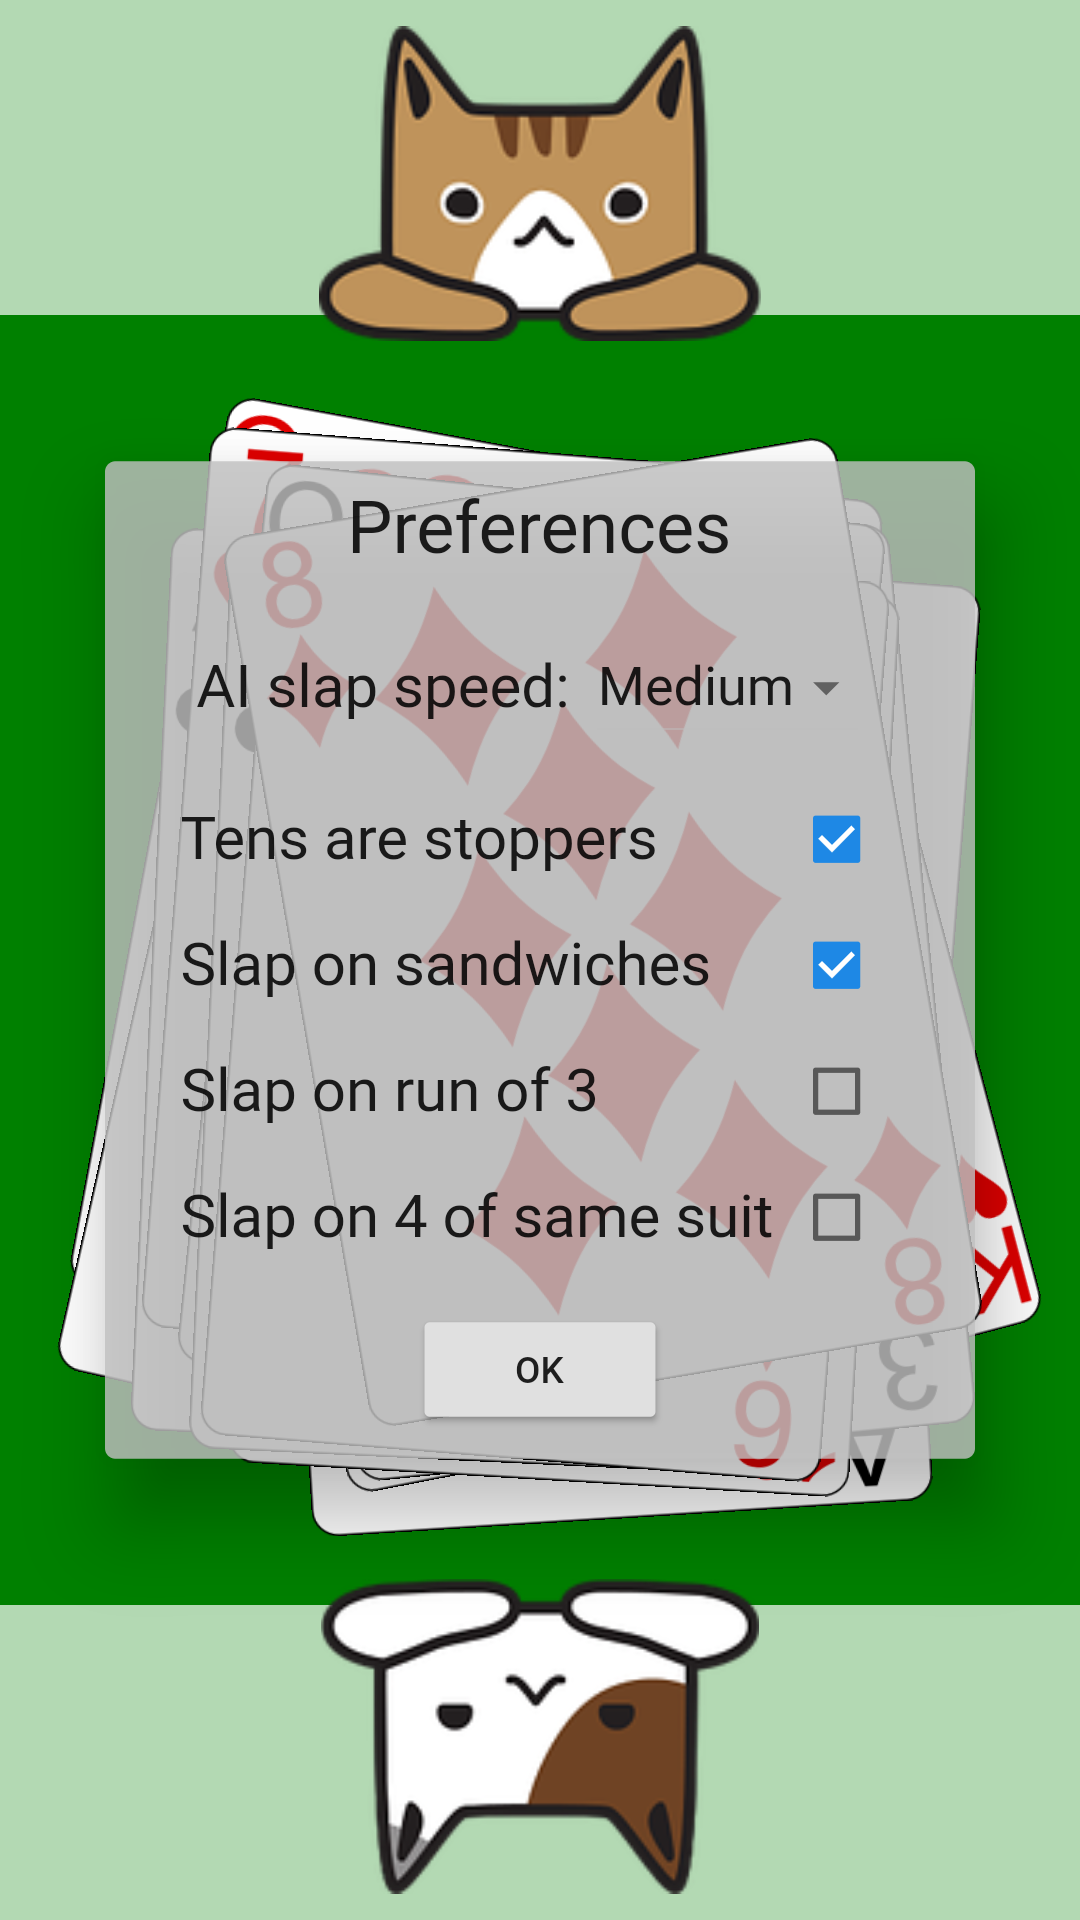
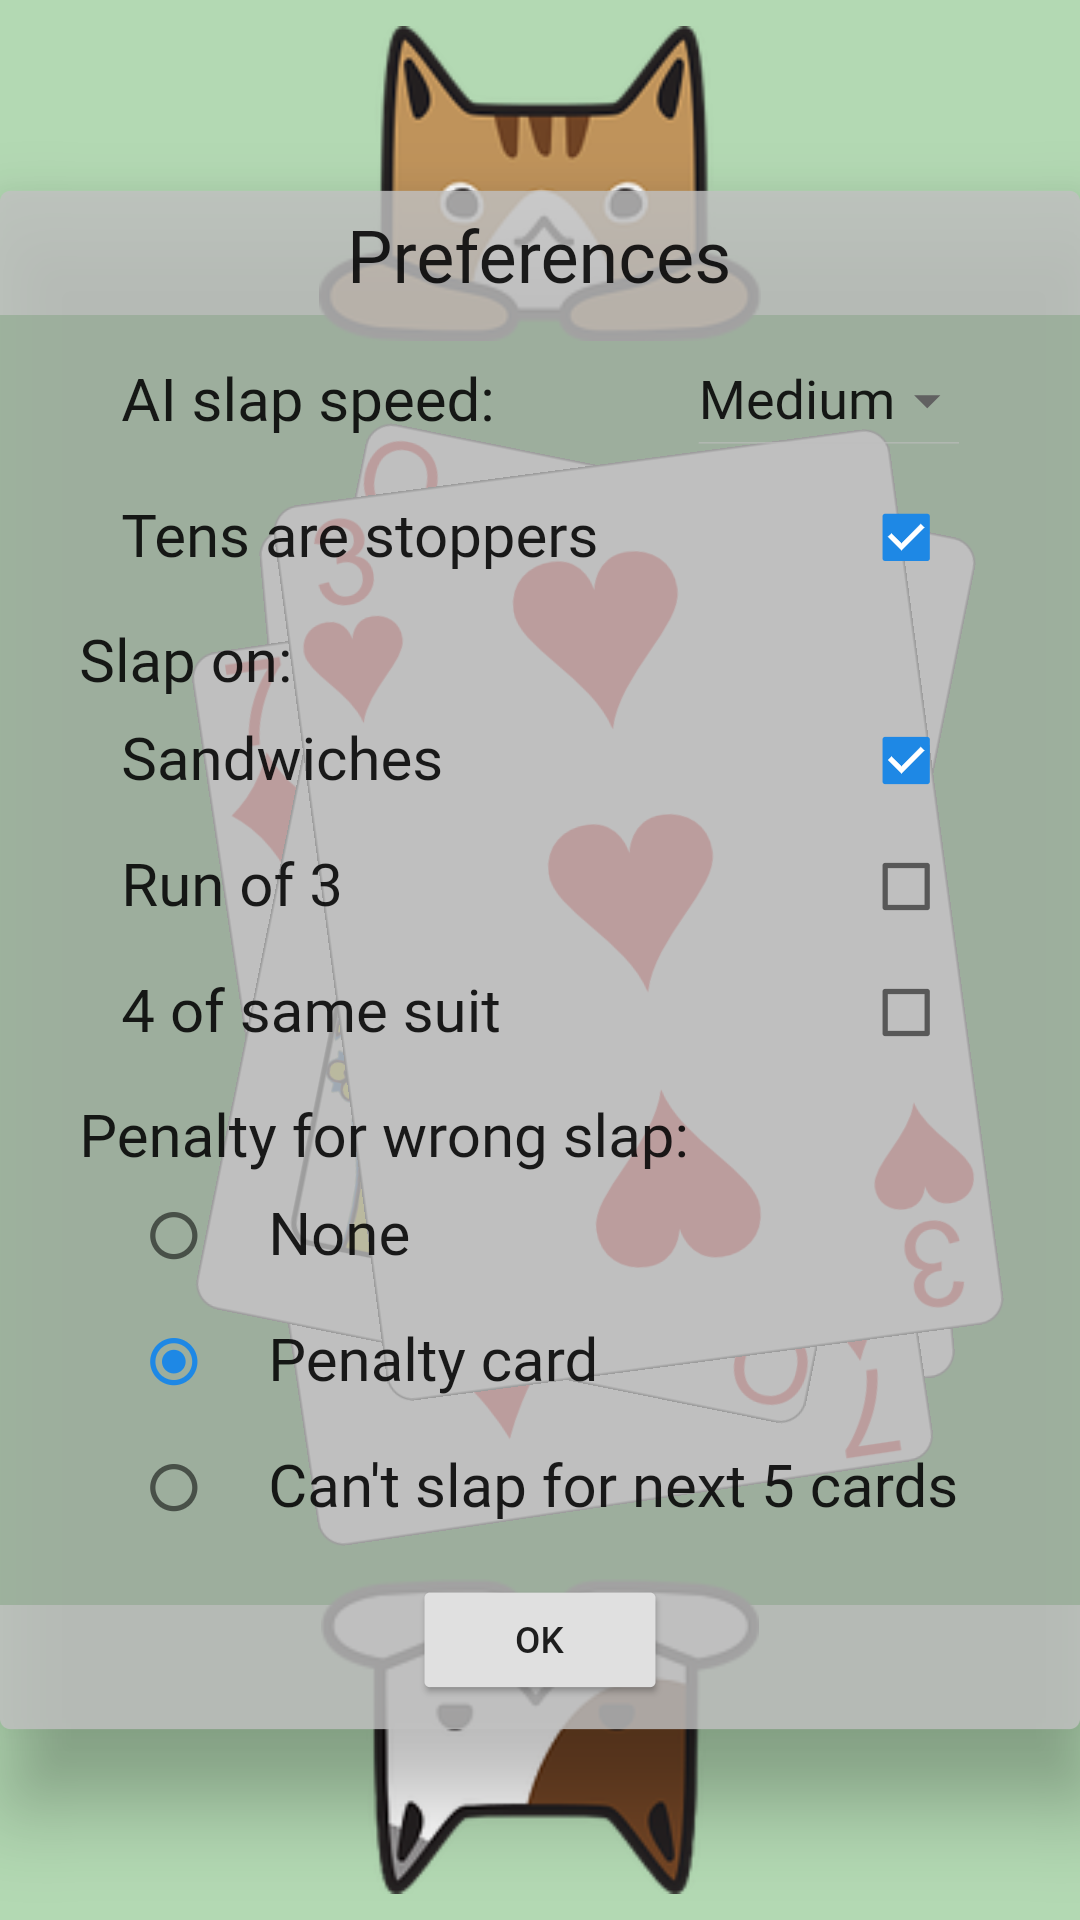
Version 1.1.0 release

diff --git a/lib/main.dart b/lib/main.dart
@@ -580,10 +580,10 @@ class _MyHomePageState extends State<MyHomePage> {
                 height: size,
                 child: Image(image: AssetImage('assets/misc/no.png'))),
             Padding(
-              padding: EdgeInsets.only(left: size * 0.6, top: size * 0.6),
+              padding: EdgeInsets.only(left: size * 0.55, top: size * 0.55),
               child: SizedBox(
-                  width: size * 0.4,
-                  height: size * 0.4,
+                  width: size * 0.45,
+                  height: size * 0.45,
                   child: TextButton(
                       style: TextButton.styleFrom(
                         shape: CircleBorder(),
@@ -831,13 +831,13 @@ class _MyHomePageState extends State<MyHomePage> {
     showAboutDialog(
         context: context,
         applicationName: 'Egyptian Mouse Pounce',
-        applicationVersion: '1.0.0',
+        applicationVersion: '1.1.0',
         applicationLegalese: '© 2020 Brian Nenninger',
         children: [
           Container(height: 15),
           MarkdownBody(
             data: aboutText,
-            onTapLink: (url) => launch(url),
+            onTapLink: (text, href, title) => launch(href),
           ),
         ],
     );

diff --git a/assets/doc/about.md b/assets/doc/about.md
@@ -42,6 +42,9 @@ or decreasing rank are played, for example 8-7-6 or 9-10-jack. Aces can be high 
 "wrap around", so players can slap on king-ace-2.
 - **Slap on 4 of same suit**: If enabled, players can slap the pile when 4 cards of the same suit
 suit are played.
+- **Penalty for wrong slap**: Allows you to choose the penalty if a player slaps incorrectly.
+"Penalty card" causes the offending player to put a card on the bottom of the current pile.
+"Can't slap for next 5 cards" prevents the player from slapping until 5 additional cards are played.
 
 ## License
 
@@ -52,5 +55,6 @@ available [here](https://github.com/dozingcat/MousePounce).
 
 - Cats and paws by [AnnaliseArt on Pixabay](https://pixabay.com/illustrations/cats-hanging-cats-kitty-cat-paw-3611310/)
 - Thought bubble by [OpenClipart-Vectors on Pixabay](https://pixabay.com/vectors/balloon-bubble-speech-thought-150981/)
+- "No" symbol by [OpenClipart-Vectors on Pixabay](https://pixabay.com/vectors/unauthorised-denied-ban-prohibition-156169/)
 - Cat emojis from [Noto Emoji by Google](https://github.com/googlefonts/noto-emoji/)
 - [Playing card images](https://code.google.com/archive/p/vector-playing-cards/)
